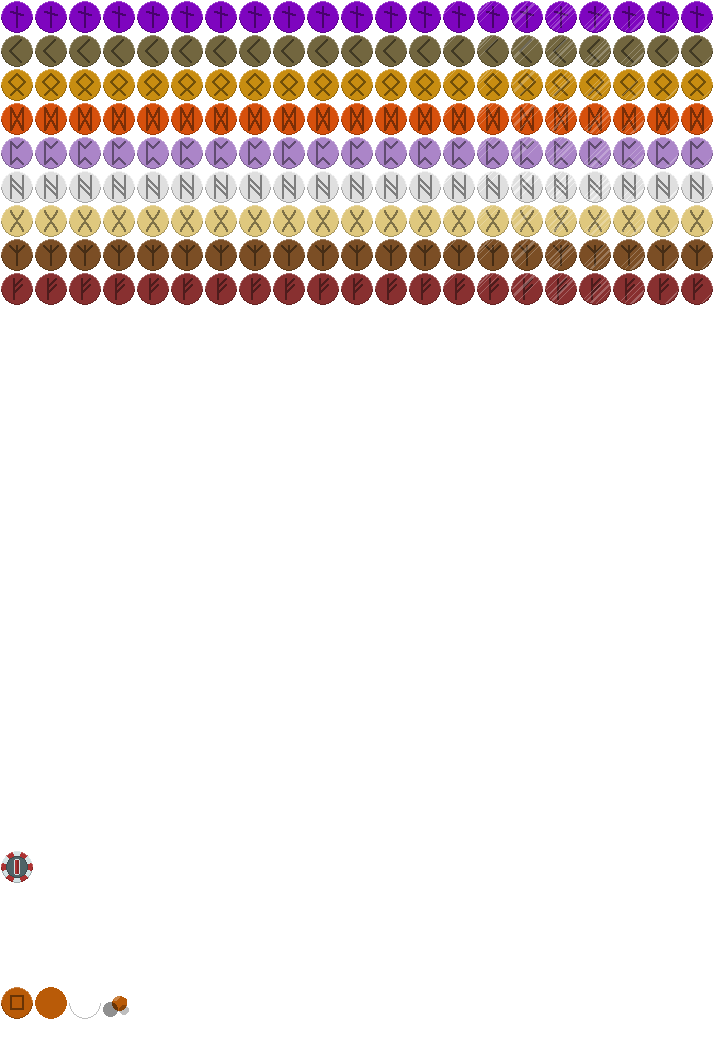
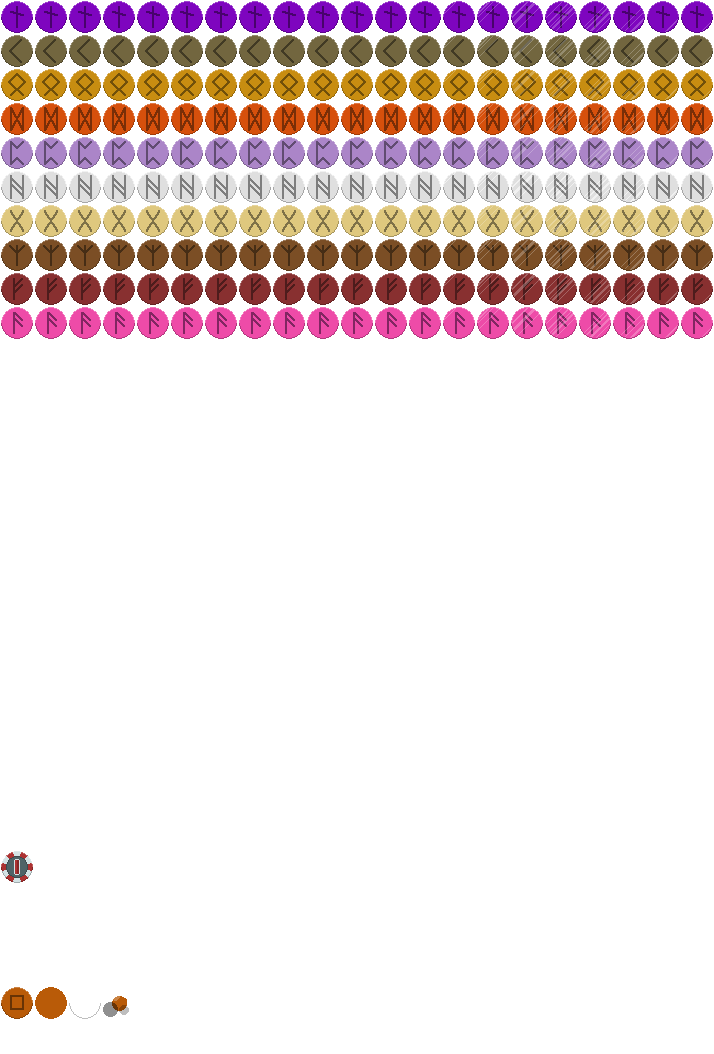
Add the Elite

Changed region(s): [[0.0, 0.2732, 1.0, 0.334]]

diff --git a/web/addjokers.js b/web/addjokers.js
@@ -955,6 +955,14 @@ let blinds = [
     image_url: "img/bl/vein.png",
     rarity: "Boss Blind"
   },
+  {
+    name: "The Elite",
+    text: [
+      "All un-enhanced cards are debuffed",
+    ],
+    image_url: "img/bl/elite.png",
+    rarity: "Boss Blind"
+  },
   // {
   //   name: "Violet Vessel",
   //   text: [
